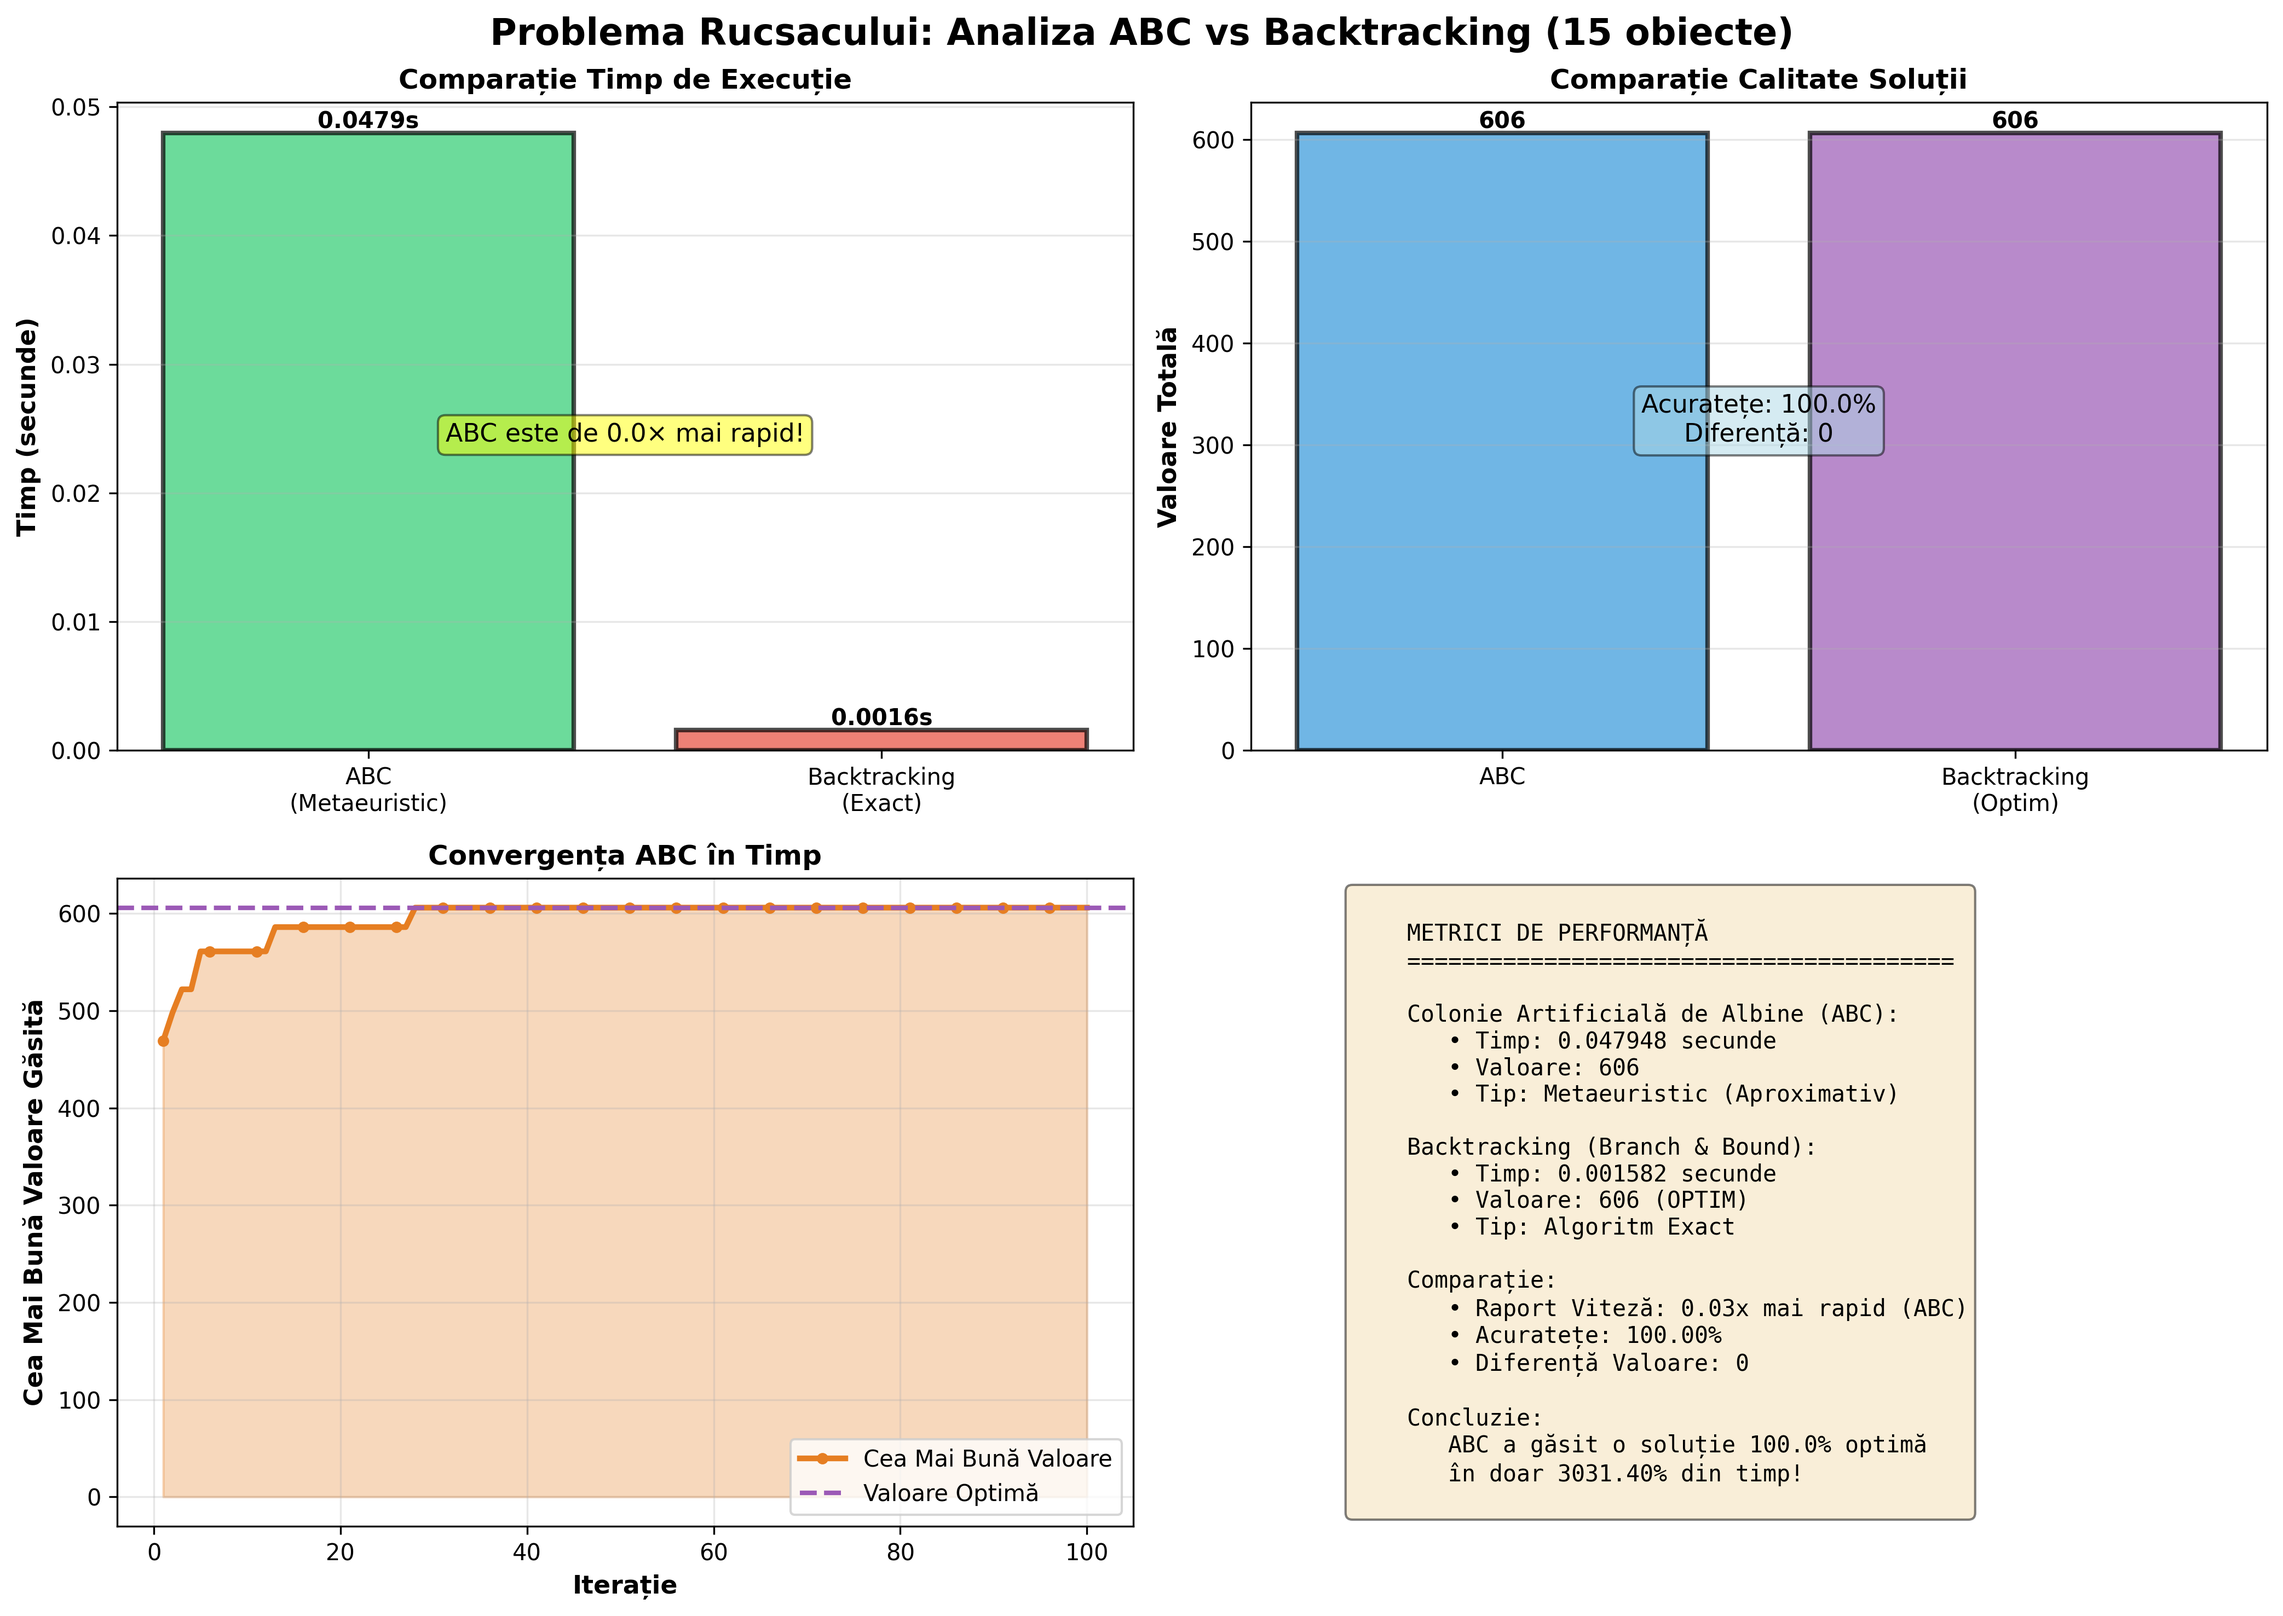
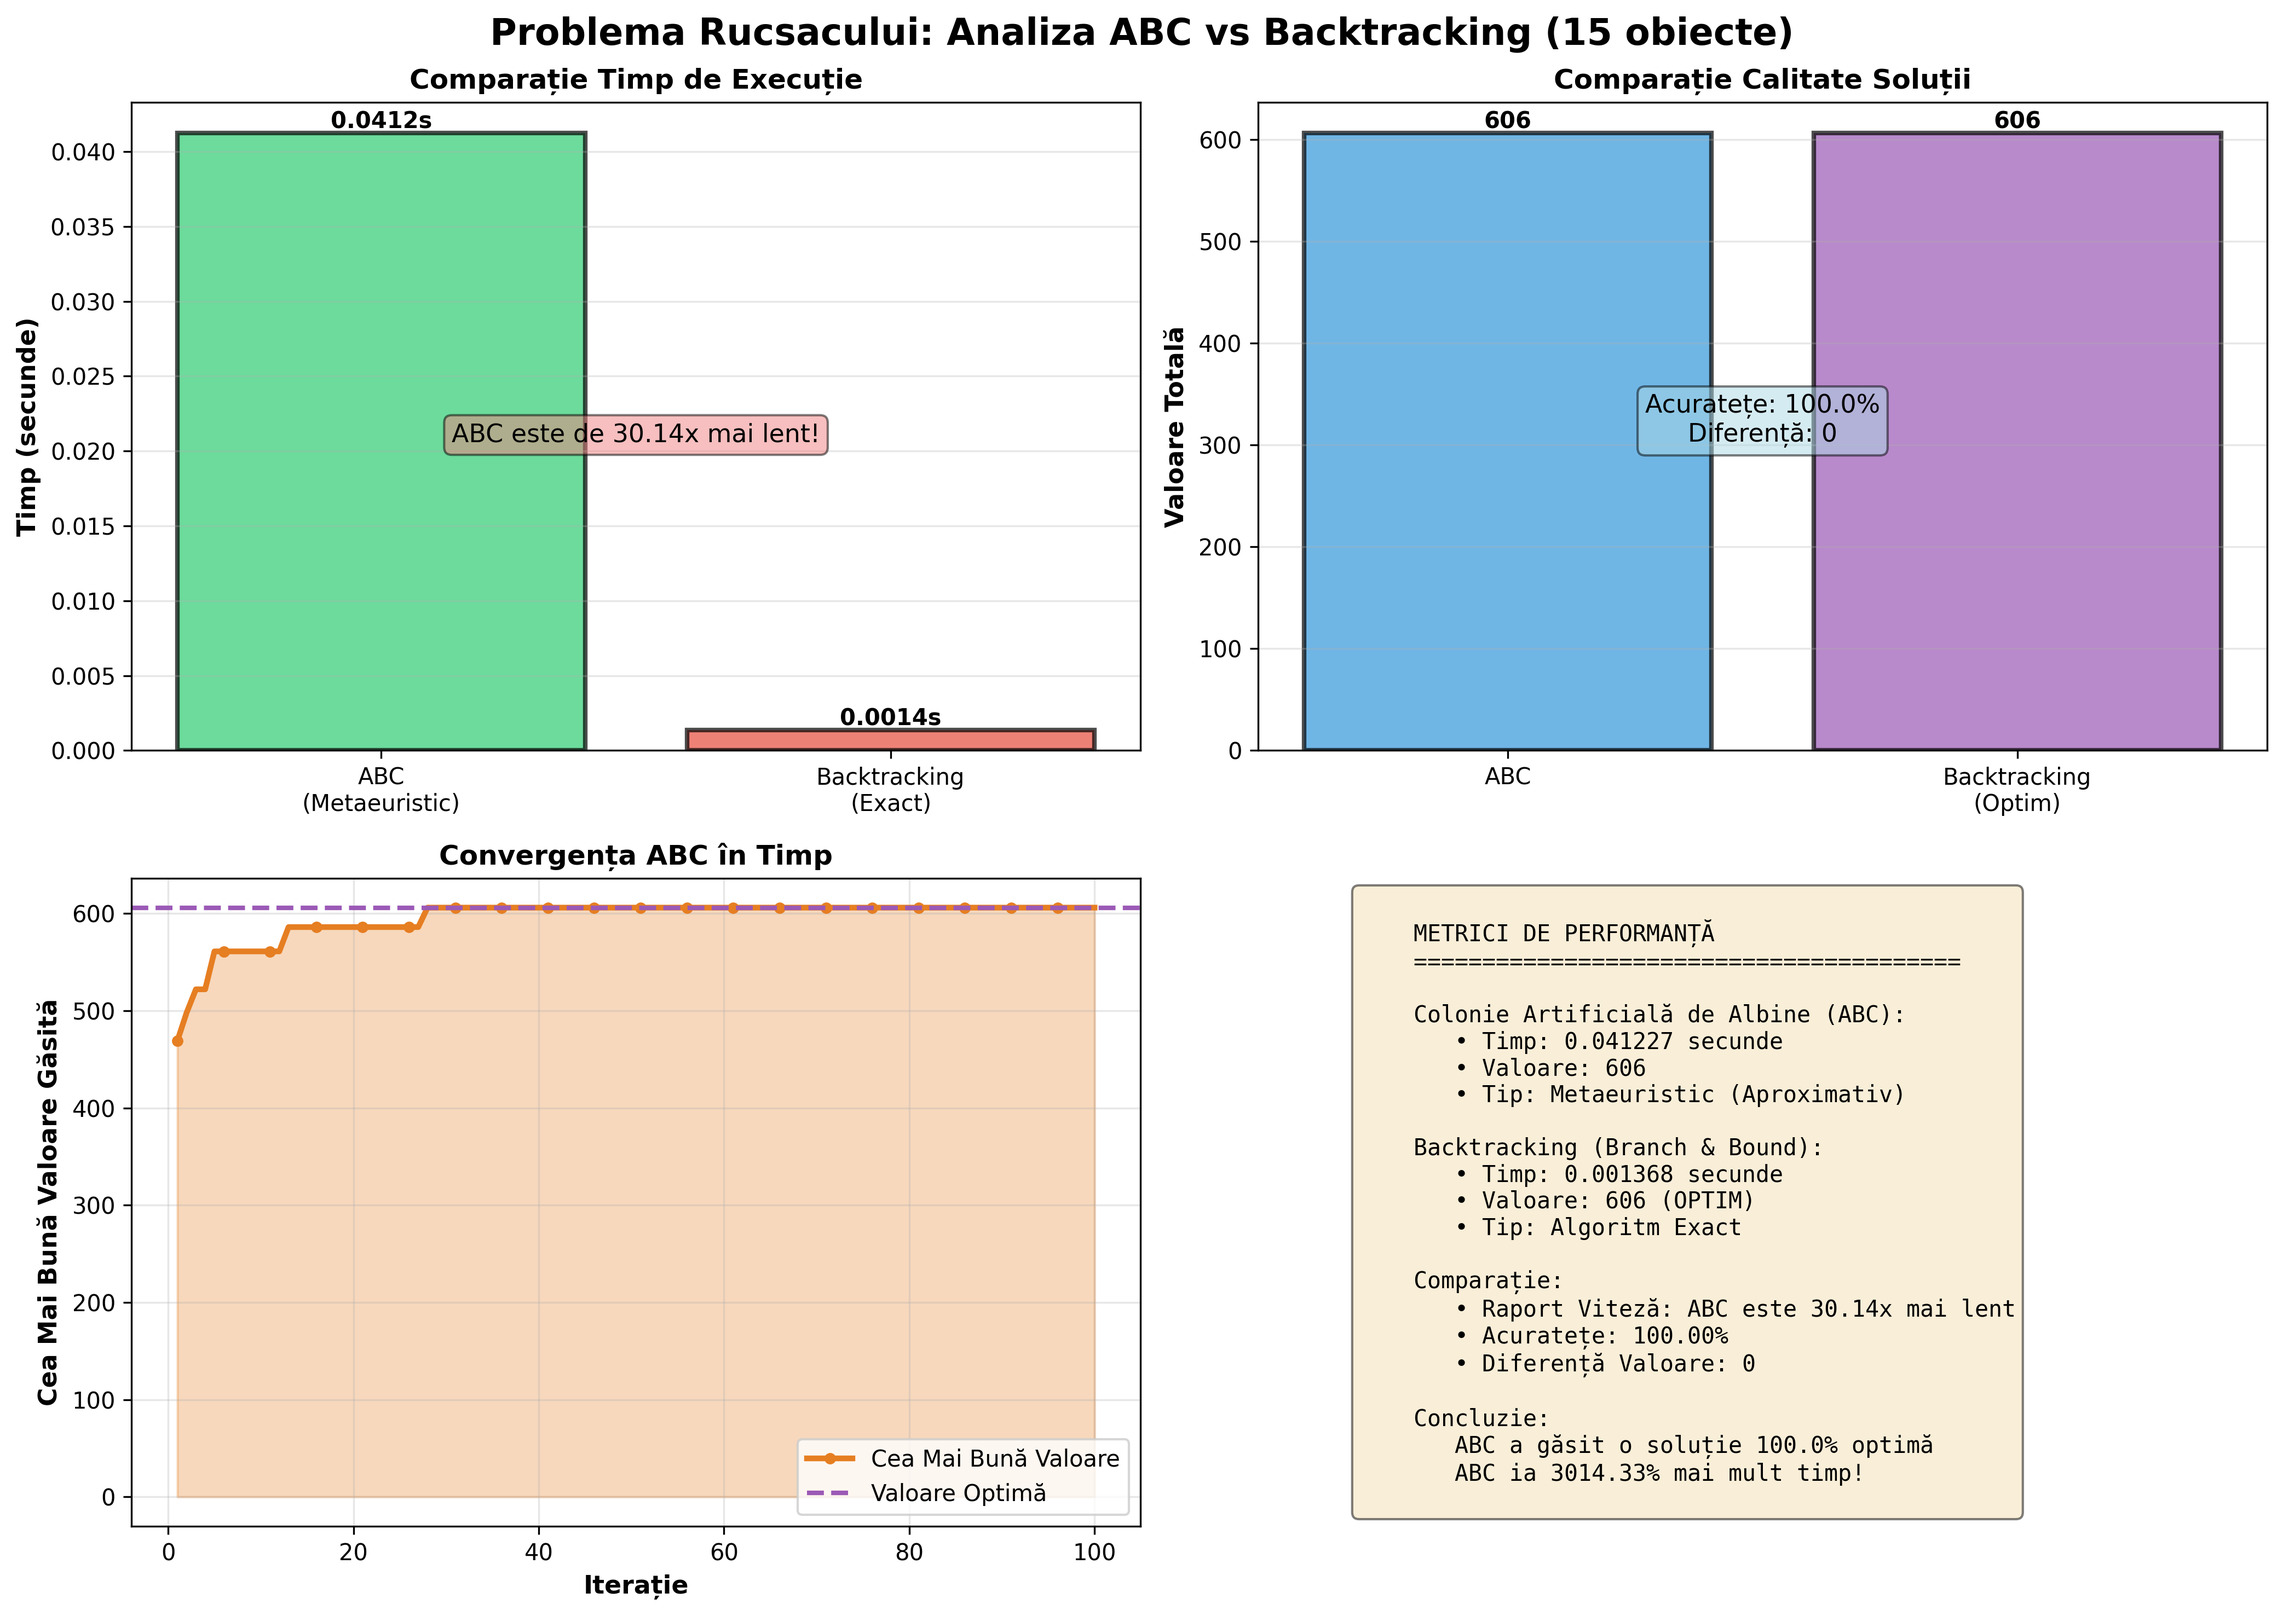
improve speedup annotation and metrics in analysis plots

diff --git a/main.py b/main.py
@@ -208,13 +208,21 @@ def plot_analysis(abc_val, abc_time, bt_val, bt_time, convergence_history, size=
 
     # Add speedup annotation
     speedup = bt_time / abc_time if abc_time > 0 else 0
+    if speedup >= 1:
+        speedup_text = f"ABC este de {speedup:.2f}x mai rapid!"
+        box_color = "yellow"
+    else:
+        inverse_speedup = abc_time / bt_time if bt_time > 0 else 0
+        speedup_text = f"ABC este de {inverse_speedup:.2f}x mai lent!"
+        box_color = "lightcoral"
+
     ax1.text(
         0.5,
         max(times) * 0.5,
-        f"ABC este de {speedup:.1f}× mai rapid!",
+        speedup_text,
         ha="center",
         fontsize=11,
-        bbox=dict(boxstyle="round", facecolor="yellow", alpha=0.5),
+        bbox=dict(boxstyle="round", facecolor=box_color, alpha=0.5),
     )
 
     # 2. Value Comparison
@@ -281,6 +289,15 @@ def plot_analysis(abc_val, abc_time, bt_val, bt_time, convergence_history, size=
     ax4 = axes[1, 1]
     ax4.axis("off")
 
+    # Determine which algorithm is faster
+    if speedup >= 1:
+        speed_comparison = f"Raport Viteză: ABC este {speedup:.2f}x mai rapid"
+        time_percentage = f"ABC în doar {(abc_time/bt_time*100):.2f}% din timp!"
+    else:
+        inverse_speedup = abc_time / bt_time if bt_time > 0 else 0
+        speed_comparison = f"Raport Viteză: ABC este {inverse_speedup:.2f}x mai lent"
+        time_percentage = f"ABC ia {(abc_time/bt_time*100):.2f}% mai mult timp!"
+
     metrics_text = f"""
     METRICI DE PERFORMANȚĂ
     {'='*40}
@@ -296,13 +313,13 @@ def plot_analysis(abc_val, abc_time, bt_val, bt_time, convergence_history, size=
        • Tip: Algoritm Exact
     
     Comparație:
-       • Raport Viteză: {speedup:.2f}x mai rapid (ABC)
+       • {speed_comparison}
        • Acuratețe: {accuracy:.2f}%
        • Diferență Valoare: {gap}
     
     Concluzie:
        ABC a găsit o soluție {accuracy:.1f}% optimă
-       în doar {(abc_time/bt_time*100):.2f}% din timp!
+       {time_percentage}
     """
 
     ax4.text(
